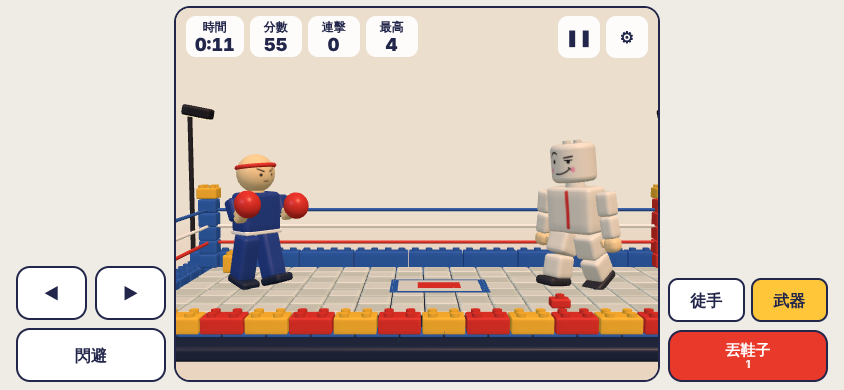
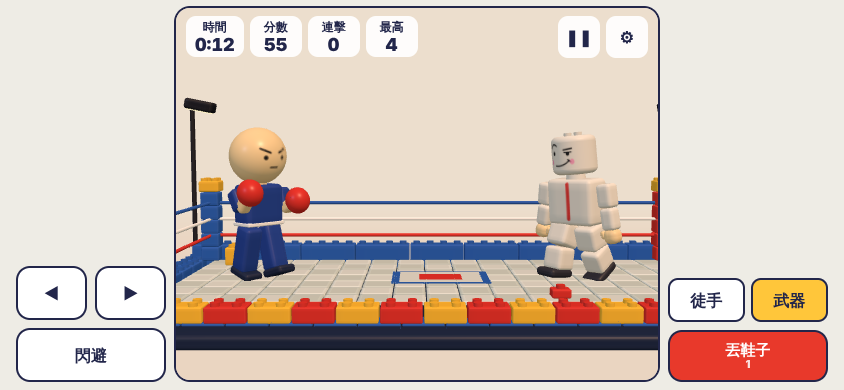
玩家積木人：拿掉頭帶、球頭放大 1.5 倍、上米白下馬卡龍藍
Claude-Session: https://claude.ai/code/session_01W9KMAiYuezKnkxaZ7ikoB8

Changed region(s): [[0.1848, 0.2462, 0.8009, 0.9538], [0.2464, 0.0923, 0.2773, 0.1231]]

diff --git a/src/game/player/playerModel.ts b/src/game/player/playerModel.ts
@@ -1,11 +1,16 @@
-import { CanvasTexture, CylinderGeometry, Group, Mesh, MeshStandardMaterial, SphereGeometry, SRGBColorSpace, TorusGeometry, type Object3D } from 'three';
+import { CanvasTexture, CylinderGeometry, Group, Mesh, MeshStandardMaterial, SphereGeometry, SRGBColorSpace, type Object3D } from 'three';
 import { plastic } from '../three/color';
 import { srgb } from '../three/color';
 import { cachedRoundedBox } from '../three/geometry';
 
+/** 玩家球形頭半徑（原 0.62 的 1.5 倍） */
+export const PLAYER_HEAD_RADIUS = 0.93;
+
 export const PLAYER_COLORS = {
-  suit: '#24408E',
-  trim: '#F4F1EA',
+  /** 上半身米白、下半身馬卡龍藍 */
+  top: '#F4F0E6',
+  bottom: '#A9CBEA',
+  trim: '#8DB4DD',
   skin: '#F2D29B',
   red: '#D8322A',
   dark: '#1D2740',
@@ -66,7 +71,7 @@ function justiceFaceMaterial(): MeshStandardMaterial {
   return (faceMat = new MeshStandardMaterial({ map: tex, roughness: 0.32, metalness: 0 }));
 }
 
-/** 玩家角色：深藍運動服、白色腰線、紅色拳套與頭帶；球形頭、正義臉。 */
+/** 玩家角色：上半身米白、下半身馬卡龍藍、紅色拳套；球形大頭、正義臉。 */
 export function buildPlayer(shadows = true): PlayerRig {
   const C = PLAYER_COLORS;
   const root = new Group();
@@ -86,30 +91,24 @@ export function buildPlayer(shadows = true): PlayerRig {
     const leg = new Group();
     leg.position.set(s * 0.34, 1.75, 0);
     body.add(leg);
-    box(0.62, 1.5, 0.68, 0.12, C.suit, leg, 0, -0.78);
+    box(0.62, 1.5, 0.68, 0.12, C.bottom, leg, 0, -0.78);
     box(0.66, 0.26, 0.98, 0.1, C.dark, leg, 0, -1.6, 0.12);
     legs.push(leg);
   }
   const torso = new Group();
   torso.position.y = 1.75;
   body.add(torso);
-  box(1.4, 1.36, 0.88, 0.16, C.suit, torso, 0, 0.68);
+  box(1.4, 1.36, 0.88, 0.16, C.top, torso, 0, 0.68);
   box(1.42, 0.14, 0.9, 0.05, C.trim, torso, 0, 0.08);
-  // 球形頭＋正義臉 (・`_´・)，紅頭帶繞一圈
+  // 球形大頭＋正義臉 (・`_´・)
   const neck = new Mesh(new CylinderGeometry(0.26, 0.28, 0.2, 18), plastic(C.skin));
   neck.position.y = 1.44;
   torso.add(neck);
-  const head = new Mesh(new SphereGeometry(0.62, 36, 24), justiceFaceMaterial());
-  head.position.set(0, 1.98, 0);
+  const R = PLAYER_HEAD_RADIUS;
+  const head = new Mesh(new SphereGeometry(R, 40, 28), justiceFaceMaterial());
+  head.position.set(0, 1.36 + R, 0);
   head.castShadow = shadows;
   torso.add(head);
-  const band = new Mesh(new TorusGeometry(0.6, 0.07, 10, 36), plastic(C.red));
-  band.rotation.x = Math.PI / 2 - 0.12;
-  band.position.y = 0.22;
-  band.castShadow = shadows;
-  head.add(band);
-  const tail = box(0.14, 0.42, 0.12, 0.05, C.red, head, 0, 0.12, -0.62);
-  tail.rotation.x = 0.6;
   const arms: Group[] = [];
   const elbows: Group[] = [];
   const gloves: Mesh[] = [];
@@ -117,7 +116,7 @@ export function buildPlayer(shadows = true): PlayerRig {
     const sh = new Group();
     sh.position.set(s * 0.92, 1.18, 0);
     torso.add(sh);
-    box(0.44, 0.72, 0.44, 0.12, C.suit, sh, 0, -0.35);
+    box(0.44, 0.72, 0.44, 0.12, C.top, sh, 0, -0.35);
     const el = new Group();
     el.position.y = -0.7;
     sh.add(el);

diff --git a/src/game/battle/BattleController.ts b/src/game/battle/BattleController.ts
@@ -12,7 +12,10 @@ import { BattleInput } from '../engine/input';
 import { RoundClock } from '../engine/roundClock';
 import { attackFinished, hitIdOf, inMeleeRange, stepAttack, type ActiveAttack } from '../moves/attack';
 import { Player } from '../player/Player';
-import { buildPlayer } from '../player/playerModel';
+import { buildPlayer, PLAYER_HEAD_RADIUS } from '../player/playerModel';
+
+/** 玩家頭頂高度：軀幹底 1.75＋頸部 1.36＋球頭直徑 */
+const PLAYER_TOP = 1.75 + 1.36 + PLAYER_HEAD_RADIUS * 2;
 import { ShoeProjectiles } from '../projectiles/shoes';
 import type { PaintStore } from '../puppet/paintSurface';
 import { Puppet, type PuppetEvent } from '../puppet/Puppet';
@@ -386,7 +389,7 @@ export class BattleController {
       aspect: this.host.camera.aspect,
       fov: this.host.camera.fov,
       actors: [
-        { x: pl.x, halfWidth: 0.9, top: PUPPET.height + 0.2 + 0.8 },
+        { x: pl.x, halfWidth: 1.0, top: PLAYER_TOP + 0.3 },
         { x: p.x, halfWidth: PUPPET.halfWidth + (p.airborne ? 0.6 : 0), top: p.lift + PUPPET.height },
       ],
     });

diff --git a/PLAN.md b/PLAN.md
@@ -235,3 +235,4 @@ interface HitEvent { hitId: HitId; moveId: MoveId; segment: number; at: number; 
 - 一鍵隨機造型：先恢復空白，再隨機套臉、髮型、服裝各一款，算 1 步可復原。
 - 復原紀錄：整面同一色的格子只記顏色，避免套服裝時每步吃掉十幾 MB。
 - 甩巴掌動畫：出手時往前踏步補足距離（上限 2.6）、身體轉正面對木偶、用靠鏡頭側的手伸直張掌，扭腰在判定瞬間把手掌甩過木偶臉的高度。
+- 玩家積木人：拿掉紅頭帶；球形頭半徑放大 1.5 倍（0.93）；上半身米白、下半身馬卡龍藍、腰線淺藍。
